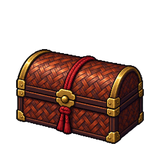
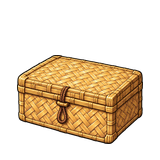
art: replace treasure chests with woven tsuzura beta 15.56.1

diff --git a/index.html b/index.html
@@ -5,14 +5,14 @@
 <meta name="viewport" content="width=device-width,initial-scale=1,maximum-scale=1,user-scalable=no,viewport-fit=cover">
 <meta name="apple-mobile-web-app-capable" content="yes">
 <meta name="theme-color" content="#0a1020">
-<title>夜叉姫の花結び奇譚 β15.56.0</title>
-<link rel="stylesheet" href="css/game.css?v=15.56.0">
+<title>夜叉姫の花結び奇譚 β15.56.1</title>
+<link rel="stylesheet" href="css/game.css?v=15.56.1">
 </head>
 <body>
 <canvas id="worldTerrain" width="1536" height="1536" hidden aria-hidden="true"></canvas>
 <div id="app">
   <header>
-    <div class="brand">夜叉姫の花結び奇譚 <small>β15.56.0</small></div>
+    <div class="brand">夜叉姫の花結び奇譚 <small>β15.56.1</small></div>
     <div class="topBtns">
       <button id="worldBtn">地図</button><button id="bookBtn">つよさ</button><button id="saveBtn">記録</button><button id="settingsBtn">設定</button>
     </div>
@@ -52,7 +52,7 @@
     <button id="newGame" class="primary" type="button" onclick="window.__YK_BOOT_START&&window.__YK_BOOT_START()">はじめから</button>
     <button id="continueGame">つづきから</button>
     <button id="debugMap" type="button" style="font-size:14px;opacity:.82">DEBUG MAP</button>
-    <div class="version">BETA 15.56.0</div><div id="bootError" style="font-size:12px;min-height:18px"></div>
+    <div class="version">BETA 15.56.1</div><div id="bootError" style="font-size:12px;min-height:18px"></div>
   </div>
   <script>
   // Boot-safe title control. This deliberately does not depend on game.js/YK_INPUT.
@@ -117,15 +117,15 @@
 
 <div id="gameover" class="overlay"><div class="titlebox"><h2>力尽きた……</h2><p>最後の自動保存から再開できます。</p><button id="retryBtn" class="primary">再開する</button><button id="goTitleBtn">タイトルへ</button></div></div>
 
-<script src="js/data.js?v=15.56.0"></script>
-<script src="js/equipment.js?v=15.56.0"></script>
-<script src="js/world.js?v=15.56.0"></script>
-<script src="js/save.js?v=15.56.0"></script>
-<script src="js/audio.js?v=15.56.0"></script>
-<script src="js/input.js?v=15.56.0"></script>
-<script src="js/autotile.js?v=15.56.0"></script>
-<script src="js/landscape.js?v=15.56.0"></script>
-<script src="js/game.js?v=15.56.0"></script>
+<script src="js/data.js?v=15.56.1"></script>
+<script src="js/equipment.js?v=15.56.1"></script>
+<script src="js/world.js?v=15.56.1"></script>
+<script src="js/save.js?v=15.56.1"></script>
+<script src="js/audio.js?v=15.56.1"></script>
+<script src="js/input.js?v=15.56.1"></script>
+<script src="js/autotile.js?v=15.56.1"></script>
+<script src="js/landscape.js?v=15.56.1"></script>
+<script src="js/game.js?v=15.56.1"></script>
 
 
 

diff --git a/js/game.js b/js/game.js
@@ -924,7 +924,7 @@ function renderRelics(){
 function menu(){if(busy)return;YK_INPUT.stopAll();busy=true;renderStatus();renderEquipment();renderRelics();$("recordPanel").textContent=`歩数 ${S.walk} / 戦闘 ${S.battles} / 勝利 ${S.wins}`;$("outfits").innerHTML=Object.entries(D.outfits).map(([k,v])=>`<button data-outfit="${k}" class="${S.outfit===k?"selected":""}"><img src="assets/characters/yashahime/${HERO_FOLDERS[k]}/front-neutral.png" alt="" loading="lazy"><span>${v.name}</span></button>`).join("");document.querySelectorAll("[data-outfit]").forEach(b=>YK_INPUT.tap(b,()=>{S.outfit=b.dataset.outfit;YK_SAVE.auto(S);$("menu").classList.remove("show");busy=false;hud();menu()}));$("menu").classList.add("show")}
 
 const CHEST_ART={};
-for(const state of ['closed','open']){const im=new Image();im.onload=assetLoaded;im.src=`assets/objects/tsuzura-${state}.png`;CHEST_ART[state]=im;}
+for(const state of ['closed','open']){const im=new Image();im.onload=assetLoaded;im.src=`assets/objects/tsuzura-${state}.png?v=15.56.1`;CHEST_ART[state]=im;}
 function drawChests(){
  for(const c of E.chests.filter(c=>c.area===S.area)){
   const im=CHEST_ART[S.chests[c.id]?'open':'closed'];

diff --git a/BETA15_56_1_STATUS.md b/BETA15_56_1_STATUS.md
@@ -1,0 +1,7 @@
+# β15.56.1 — 編みつづら
+
+- つづらの閉／開グラフィックを、わら色の竹・藤編み風の和風つづらへ変更。
+- 平らな蓋、縄留め、自然素材の縁取りを採用。
+- 開閉画像は共通縮尺・共通接地位置で配置。
+- 配置、中身、取得済みセーブデータは変更なし。
+- アセットのキャッシュ更新用バージョンを追加。
